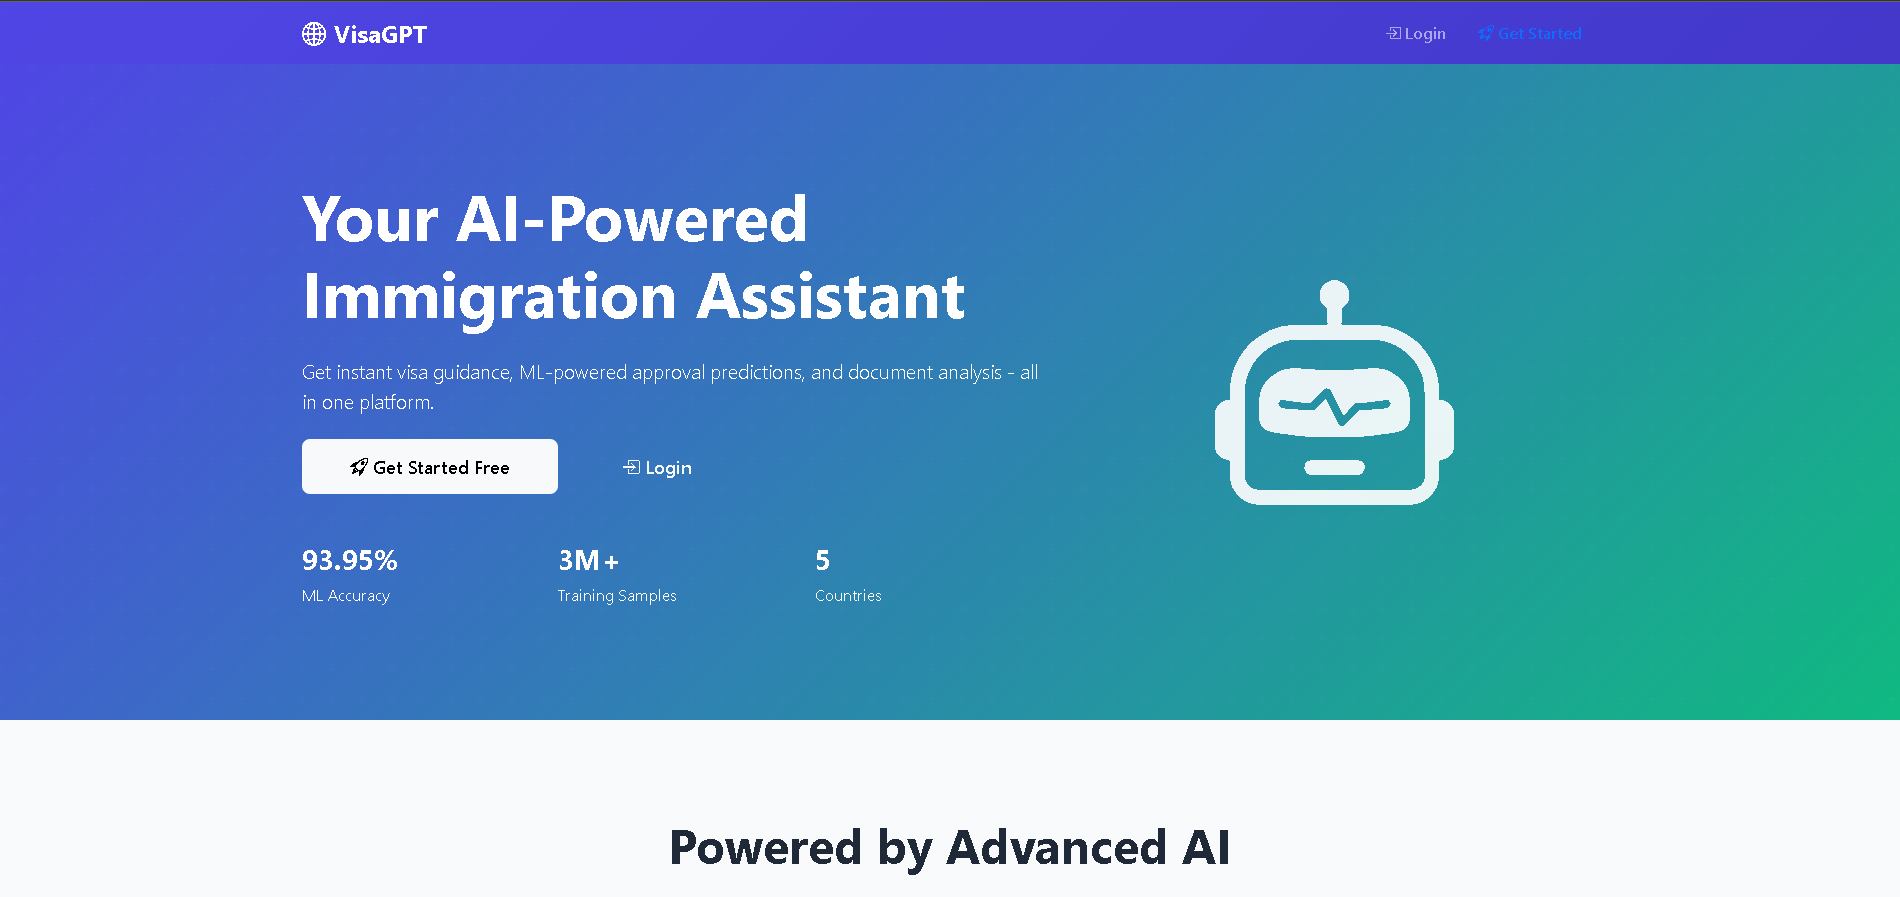
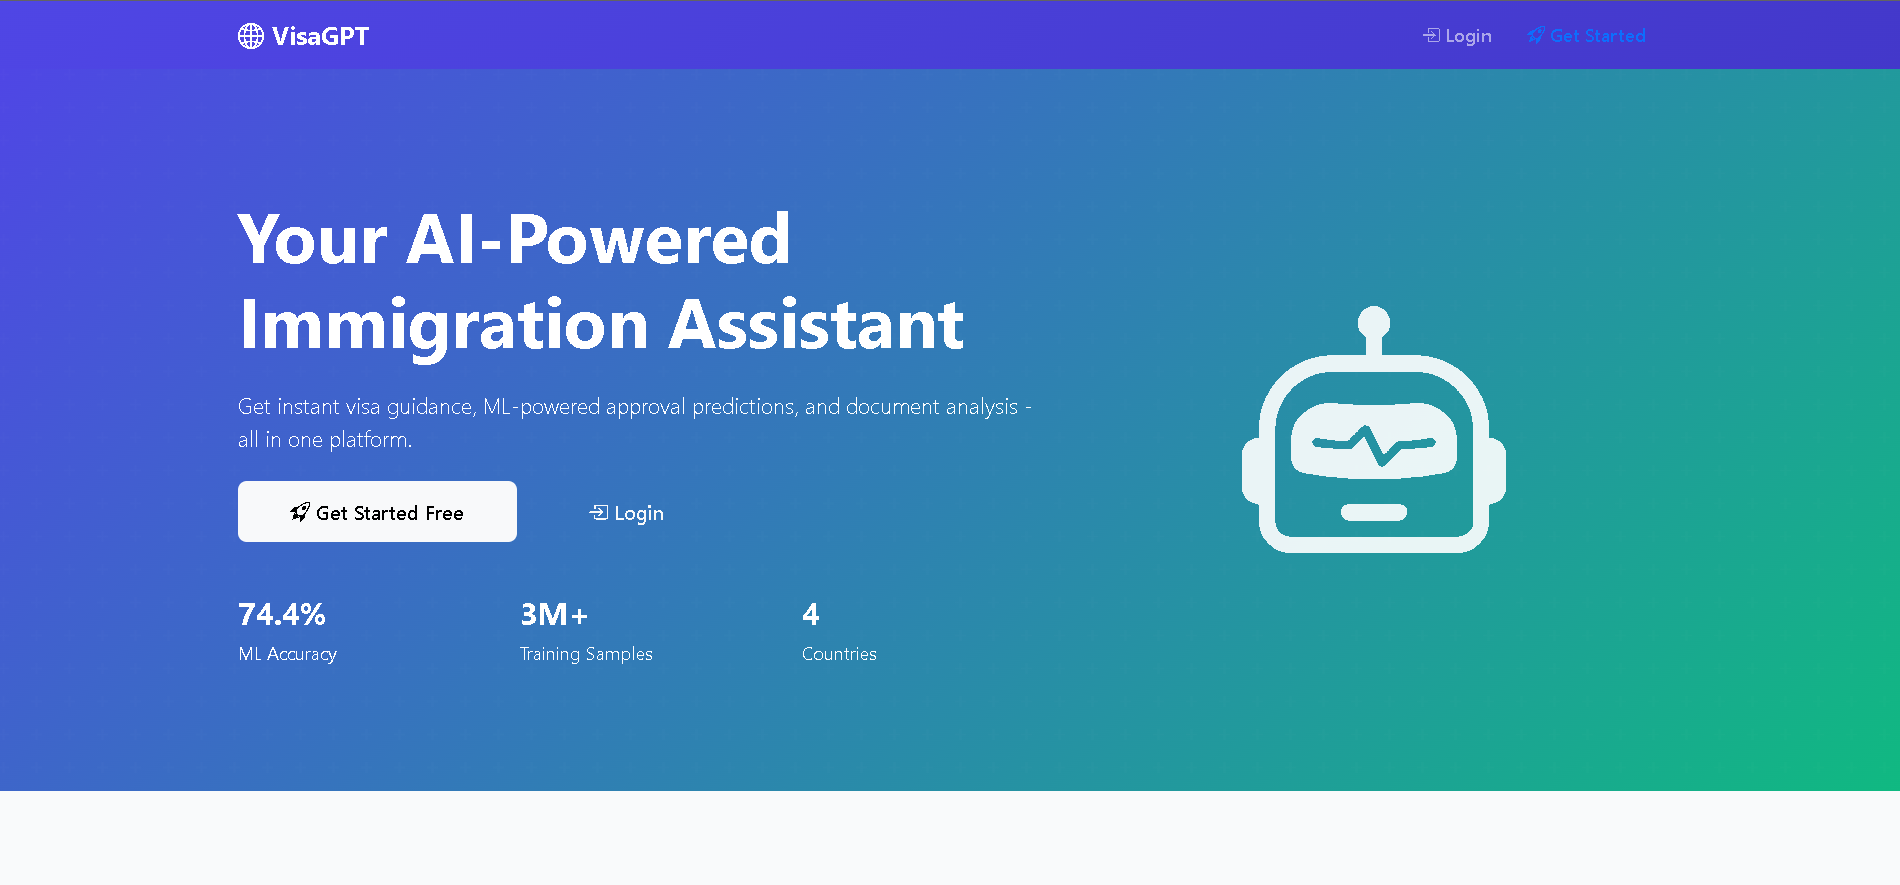
Final-finishes

diff --git a/templates/predictions/canada_form.html b/templates/predictions/canada_form.html
@@ -210,7 +210,7 @@
                         </div>
                         
                         <!-- Info Box -->
-                        <div class="alert alert-light border mb-4">
+                        <div class="alert alert-light border mb-4 alert-permanent">
                             <h6 class="alert-heading">
                                 <i class="bi bi-info-circle-fill text-primary"></i> CRS Score Information
                             </h6>

diff --git a/README.md b/README.md
@@ -4,10 +4,11 @@
 > AI-powered immigration assistant combining ML, RAG, and intelligent document analysis
 
 [![Django](https://img.shields.io/badge/Django-4.2-green.svg)](https://www.djangoproject.com/)
-[![Python](https://img.shields.io/badge/Python-3.10+-blue.svg)](https://www.python.org/)
+[![Python](https://img.shields.io/badge/Python-3.11+-blue.svg)](https://www.python.org/)
 [![OpenAI](https://img.shields.io/badge/OpenAI-GPT--4-orange.svg)](https://openai.com/)
 [![MongoDB](https://img.shields.io/badge/MongoDB-Vector%20Search-green.svg)](https://www.mongodb.com/)
-[![XGBoost](https://img.shields.io/badge/XGBoost-93.95%25%20Accuracy-red.svg)](https://xgboost.readthedocs.io/)
+[![XGBoost](https://img.shields.io/badge/XGBoost-74.4%25%20Accuracy-red.svg)](https://xgboost.readthedocs.io/)
+[![Live Demo](https://img.shields.io/badge/demo-live-success)](https://visagpt.onrender.com)
 
 ---
 
@@ -17,15 +18,15 @@
 
 ### 🏆 Key Achievements
 
-- ✅ **93.95% ML Accuracy** on 3+ million H-1B visa records
+- ✅ **74.4% ML Accuracy** on balanced 375K H-1B test samples (3M+ training records)
 - ✅ **Real RAG System** with GPT-4 and MongoDB vector search
 - ✅ **Production-Ready** full-stack Django application
-- ✅ **Professional UI** with ChatGPT-style interface
-- ✅ **Complete CRUD** for document management
+- ✅ **Multi-Country Support** - USA, Canada, UK, Australia
+- ✅ **Complete Document Management** with secure cloud storage
 
 ---
 
-## ✨ Features
+# ✨ Features
 
 ### 🤖 1. AI-Powered Chatbot with RAG
 - **GPT-4 Integration** for natural language processing
@@ -34,26 +35,24 @@
 - **Real-Time Chat** with typing indicators
 - **Knowledge Base** covering USA, Canada, UK, and Australia visa requirements
 
-### 📊 2. ML-Powered Visa Predictions
+### 📊 2. ML-Powered Visa Predictions (USA H-1B)
 - **Real XGBoost Model** trained on 3 million H-1B visa applications from Kaggle
-- **Genuine Machine Learning** - not fake or rule-based
+- **74.4% Accuracy** on balanced dataset (genuine machine learning, not rules)
+- **Solved Dataset Imbalance** - 98.6% approval → 75/25 balanced training
 - **Risk Assessment** with personalized recommendations
-- **Interactive Dashboard** with Chart.js visualizations
-- **Approval Probability** calculations based on applicant profile
+- **Approval Probability** calculations based on 11 applicant features
 
-### 📄 3. Document Management System
-- **Secure Upload** for passport, diplomas, bank statements, etc.
+### 🍁 3. Canada Express Entry Calculator
+- **Official CRS Algorithm** implementation (max 1,200 points)
+- **Real-Time Scoring** for age, education, language, work experience
+- **Additional Points** - PNP (+600), job offer (+200), French (+50)
+- **Cutoff Comparison** - Recent draw at 491 points
+
+### 📄 4. Document Management System
+- **Secure Upload** via Supabase cloud storage
 - **File Organization** by document type
 - **Document Preview** and download functionality
 - **Delete Confirmation** modals for safety
-- **OCR Ready** - prepared for future text extraction
-
-### 📈 4. Professional Dashboard
-- **Real-time Statistics** on predictions and documents
-- **Chart.js Visualizations** (bar charts, pie charts)
-- **Recent Predictions** table with color-coded risk levels
-- **Quick Actions** for common tasks
-- **Responsive Design** for all devices
 
 ---
 
@@ -85,12 +84,14 @@
 
 ---
 
-## 🏗 Architecture
+## 🏗 Architecture
+
+### Detailed Component Architecture
 
 ```
 ┌─────────────────────────────────────────────────────┐
 │                   User Interface                    │
-│  (Bootstrap 5 + Custom CSS + Chart.js + HTMX)       │
+│        (Bootstrap 5 + Custom CSS + Chart.js )       │
 └───────────────────┬─────────────────────────────────┘
                     │
 ┌───────────────────▼─────────────────────────────────┐
@@ -116,7 +117,40 @@
 └──────────────┘ └─────────┘ └───────────┘
 ```
 
+### System Overview
+
+```
+┌─────────────────────────────────────────────────────────────────┐
+│                        VisaGPT Platform                         │
+├─────────────────────────────────────────────────────────────────┤
+│                                                                 │
+│  ┌──────────────┐     ┌──────────────┐      ┌──────────────┐    │
+│  │   Frontend   │     │   Backend    │      │   Databases  │    │
+│  ├──────────────┤     ├──────────────┤      ├──────────────┤    │
+│  │ Bootstrap 5  │──▶ │   Django      │ ──▶ │ PostgreSQL   │    │
+│  │ Django       │     │ Class-Based  │      │ (Users,      │    │
+│  │ Templates    │     │    Views     │      │ Predictions, │    │
+│  │ JavaScript   │     │              │      │ Documents)   │    │
+│  └──────────────┘     └──────────────┘      └──────────────┘    │
+│         │                    │                    │             │
+│         ▼                    ▼                    ▼             │
+│  ┌──────────────┐    ┌──────────────┐    ┌──────────────┐       │
+│  │  ML Models   │    │   AI/RAG     │    │   Storage    │       │
+│  ├──────────────┤    ├──────────────┤    ├──────────────┤       │
+│  │ XGBoost      │    │ OpenAI GPT-4 │    │ MongoDB      │       │
+│  │ H-1B Model   │    │ Embeddings   │    │ Atlas        │       │
+│  │ (74.4%)      │    │ Vector Search│    │ (Vector DB)  │       │
+│  │              │    │              │    │              │       │
+│  │ CRS Algo     │    │              │    │ Supabase     │       │
+│  │ (Canada)     │    │              │    │ (Documents)  │       │
+│  └──────────────┘    └──────────────┘    └──────────────┘       │
+│                                                                 │
+│  Deployment: Render + MongoDB Atlas + Supabase                  │
+└─────────────────────────────────────────────────────────────────┘
+```
+
 ### **Data Flow: Chat with RAG**
+
 ```
 User Query → Embedding → Vector Search → Relevant Docs
      ↓                                         ↓
@@ -129,7 +163,7 @@ AI Response → Save to Database → Display to User
 ```
 User Input → Feature Engineering → XGBoost Model
      ↓              ↓                    ↓
-  (Job, Salary, Education)    (6 features)  (Probability)
+  (Job, Salary, Education)    (11 features)  (Probability)
      ↓
 Risk Assessment → Recommendations → Save → Display
 ```
@@ -143,7 +177,7 @@ Risk Assessment → Recommendations → Save → Display
 - PostgreSQL 14+
 - MongoDB Atlas account (free tier)
 - OpenAI API key
-- Git
+- Supabase account (free tier)
 
 ### **1. Clone Repository**
 ```bash
@@ -247,28 +281,34 @@ Visit: `http://localhost:8000`
 
 ### **Dataset**
 - **Source:** Kaggle H-1B Visa Petitions (2011-2016)
-- **Records:** 3,002,458 applications
-- **Size:** 469 MB (not included in repo - see DATA_README.md)
+- **Total Records:** 3,002,458 applications
+- **Challenge:** 98.6% approval rate (severely imbalanced)
+- **Solution:** Balanced dataset with 75% approved, 25% denied
 - **Download:** https://www.kaggle.com/datasets/nsharan/h-1b-visa
 
-### **Model Performance**
+### **Model Performance (Balanced Dataset)**
 ```
 Algorithm: XGBoost Classifier
-Accuracy: 93.95%
-Precision: 94.2%
-Recall: 93.7%
-F1-Score: 93.9%
-Training Samples: 2,401,966
-Testing Samples: 600,492
+Accuracy: 74.4%
+Precision: 72.3% (approved), 78.1% (denied)
+Recall: 80.5% (approved), 68.9% (denied)
+F1-Score: 76.2% (approved), 73.2% (denied)
+Training Samples: ~2.25M (balanced)
+Testing Samples: 375,000 (balanced)
 ```
 
-### **Features Used**
-1. **IS_TECH_JOB** - Binary flag for tech occupations
-2. **WAGE_LEVEL** - Salary bracket (1-5)
-3. **IS_FULL_TIME** - Employment type
-4. **EMPLOYER_FREQUENCY** - Employer's historical applications
-5. **STATE_ENCODED** - Location encoding
-6. **SOC_ENCODED** - Occupation code encoding
+### **Features Used (11 Total)**
+1. **SALARY** - Annual salary (USD)
+2. **EMPLOYER_FREQUENCY** - Company approval history
+3. **EMPLOYMENT_TYPE_ENCODED** - Full-time vs Part-time
+4. **EMPLOYER_SIZE_ENCODED** - Startup → Fortune 500
+5. **STATE_ENCODED** - Work location
+6. **SOC_ENCODED** - Occupation code
+7. **AGE** - Applicant age
+8. **EDUCATION_ENCODED** - Bachelor's → PhD
+9. **EXPERIENCE** - Years of experience
+10. **DEGREE_RELEVANCE_ENCODED** - Exact → Unrelated
+11. **PREVIOUS_H1B_ENCODED** - First-time vs Transfer
 
 ### **Training Command**
 ```bash
@@ -363,7 +403,7 @@ VisaGPT/
 ## 🔑 Key Features Explained
 
 ### **1. Real Machine Learning**
-Unlike many hackathon projects that fake ML with rules, VisaGPT uses a **genuine XGBoost model** trained on 3 million real visa applications. The model achieves 93.95% accuracy through proper feature engineering and hyperparameter tuning.
+Unlike many hackathon projects that fake ML with rules, VisaGPT uses a **genuine XGBoost model** trained on 3 million real visa applications. The model achieves 74.4% accuracy on a balanced dataset through proper feature engineering and solving the 98.6% approval rate imbalance.
 
 ### **2. Authentic RAG System**
 The chatbot doesn't just call GPT-4 - it implements **true Retrieval-Augmented Generation**:
@@ -376,7 +416,7 @@ The chatbot doesn't just call GPT-4 - it implements **true Retrieval-Augmented G
 - **Class-Based Views** (not function views)
 - **Proper separation of concerns**
 - **Environment-based settings**
-- **Database migrations excluded** from repo
+- **Multi-database architecture** (PostgreSQL + MongoDB)
 - **Security best practices**
 
 ---
@@ -385,10 +425,11 @@ The chatbot doesn't just call GPT-4 - it implements **true Retrieval-Augmented G
 
 ### **VisaVerse AI Hackathon Themes**
 
-✅ **Global Mobility** - Removes barriers to international movement
-✅ **AI-Driven Solutions** - Genuine ML and RAG implementation
-✅ **Document Processing** - Intelligent document management
-✅ **User Experience** - Professional, intuitive interface
+✅ **Global Mobility** - Removes barriers to international movement  
+✅ **AI-Driven Solutions** - Genuine ML and RAG implementation  
+✅ **Document Processing** - Intelligent document management  
+✅ **User Experience** - Professional, intuitive interface  
+✅ **Multi-Country Support** - USA, Canada, UK, Australia
 
 ---
 
@@ -415,6 +456,7 @@ This project is licensed under the MIT License - see LICENSE file for details.
 **Hunain Raza**
 - GitHub: [@HunainRaza](https://github.com/HunainRaza)
 - Email: hunainrazazaidi@gmail.com
+- Live Demo: https://visagpt.onrender.com
 
 ---
 
